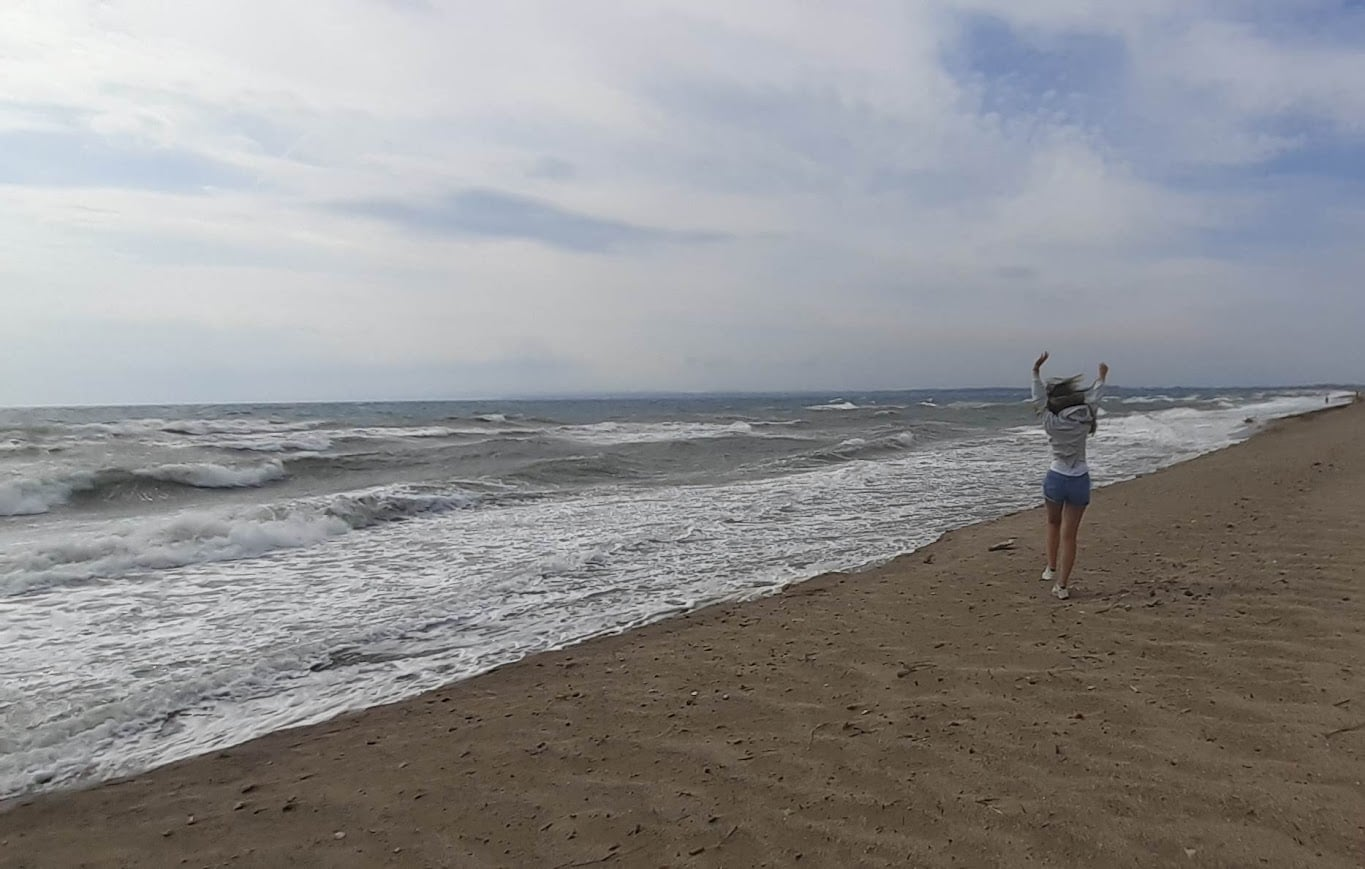
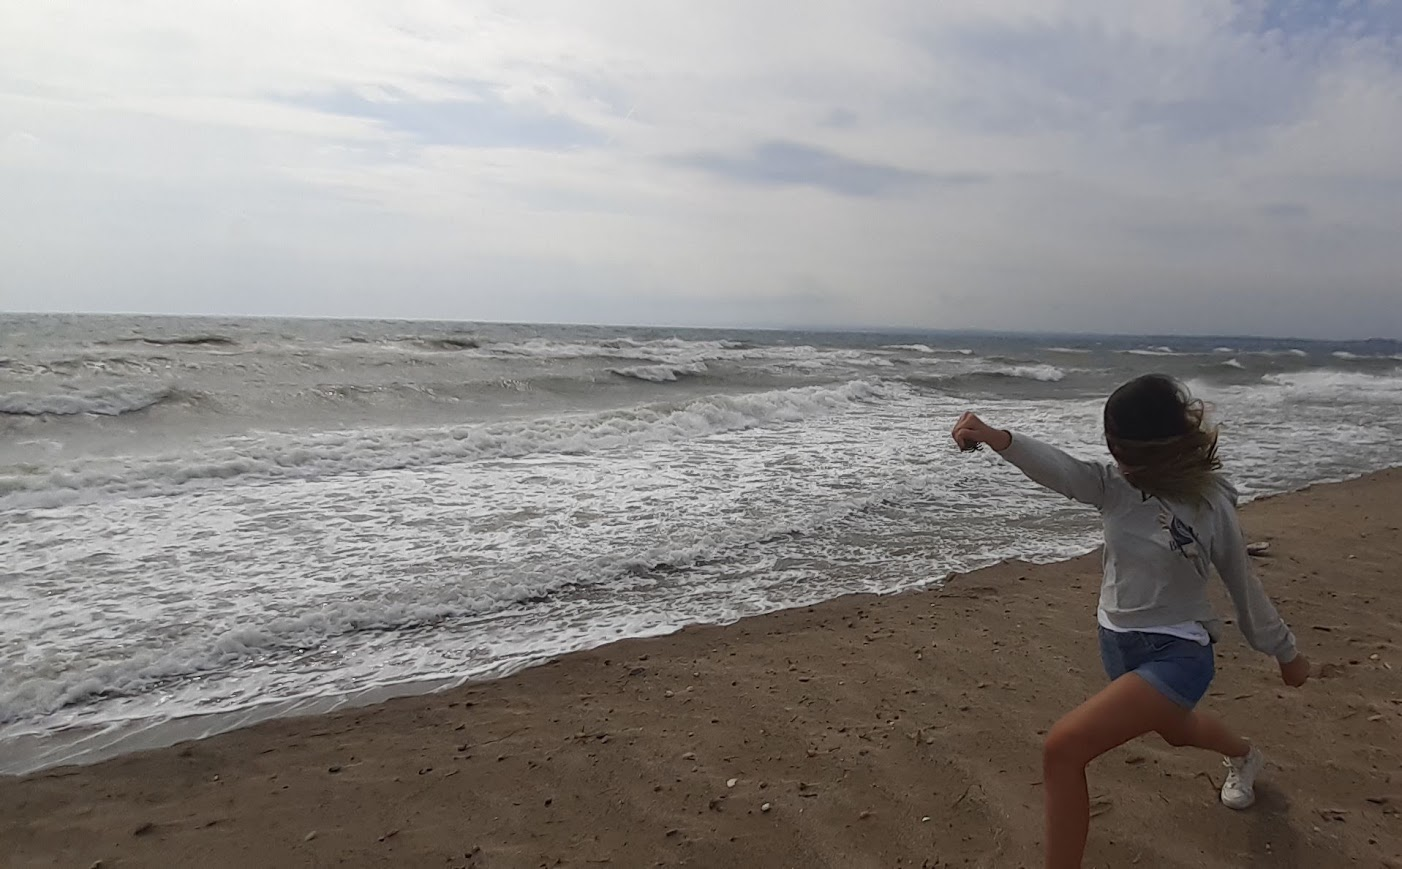
Update project links and responsive case studies

diff --git a/src/data/projects.js b/src/data/projects.js
@@ -28,6 +28,7 @@ export const botanicalGardenProject = {
   title: "BOTANICAL GARDEN",
   type: "Webapp",
   heroImage: botanicalHero,
+  liveUrl: "https://www.figma.com/proto/96ZBOzR01ED8kzXEN4golw/Botanical-Garden?node-id=501-2280&starting-point-node-id=501%3A2280&t=PyvHQD6uSrGxroPH-1",
   focusIcons: [figmaIcon, codingIcon],
   tagline: "An app that turns garden visitors into explorers, encouraging them to discover plants and save their favourites in a personal digital garden they can take home as a memory of their visit.",
   overview: [
@@ -63,6 +64,7 @@ export const blaSolProject = {
   title: "BLÅ SOL",
   type: "Webapp",
   heroImage: blaSolHero,
+  liveUrl: "https://madlengeorgieva.github.io/blue-sun/",
   focusIcons: [figmaIcon, codingIcon, lightningIcon, reactIcon],
   tagline: "Blå Sol is a mobile festival companion designed to make the festival experience more connected, organized, and safe through intuitive navigation, real-time information, social features, and an SOS function.",
   overview: [
@@ -80,7 +82,7 @@ export const blaSolProject = {
     { title: "DISCOVER", image: blaSolDiscover, imageAlt: "Blå Sol festival research board", text: "We explored the challenges festival visitors face around navigation, communication and safety. Through desk research, segmentation, field research, interviews and observation, we investigated how people behave in crowded festival environments and what they need to feel informed and connected." },
     { title: "DEFINE", image: blaSolDefine, imageAlt: "Blå Sol Matteo audience persona", text: "We structured our findings using empathy maps, affinity diagramming and personas to identify recurring needs and pain points. This helped us define the core opportunity: creating a simple mobile solution that reduces confusion and helps festival guests navigate, stay connected and feel safe." },
     { title: "DEVELOP", image: blaSolDevelop, imageAlt: "Blå Sol low-fidelity wireframes", text: "We explored different ideas through sketches, moodboards, style tiles and information architecture. We developed the festival map, navigation and communication features while applying UX principles to create a clear and accessible experience." },
-    { title: "DELIVER", image: blaSolDeliver, imageAlt: "Blå Sol final 50 Days Left interface", text: "We tested the concept with 10 participants from the target group and used their feedback to refine the experience. The final solution was developed as an interactive Figma prototype and further implemented as a front-end prototype, bringing together navigation, communication, safety and real-time festival information." },
+    { title: "DELIVER", image: blaSolDeliver, imageAlt: "Blå Sol final 50 Days Left interface", imagePosition: "center top", text: "We tested the concept with 10 participants from the target group and used their feedback to refine the experience. The final solution was developed as an interactive Figma prototype and further implemented as a front-end prototype, bringing together navigation, communication, safety and real-time festival information." },
   ],
 };
 
@@ -89,6 +91,7 @@ export const spilcafeenProject = {
   title: "SPILCAFEEN",
   type: "Webapp",
   heroImage: spilcafeenHero,
+  liveUrl: "https://www.figma.com/proto/8bHaUS110UlMVvvc7oiCRX/Spilcafeen?node-id=1-18&t=TrNcgR0M8JzIqD6v-1",
   focusIcons: [figmaIcon, codingIcon, lightningIcon, reactIcon],
   tagline: "Spilcafeen is a responsive digital experience that helps visitors discover board games suited to their group, interests, and mood. Through personalized recommendations and clear game information, finding the right game becomes simple, memorable, and enjoyable.",
   overview: [
@@ -115,6 +118,7 @@ export const hiddenHyggeProject = {
   title: "HIDDEN HYGGE PLACES",
   type: "Webapp",
   heroImage: hyggeHero,
+  liveUrl: "https://madlengeorgieva.github.io/hygge/",
   focusIcons: [figmaIcon, codingIcon],
   tagline: "Hidden Hygge Places is a responsive experience website that helps young adults discover lesser-known hygge spots based on their mood and interests. Through personalized recommendations and a memorabilia concept, the experience turns finding hidden places into something personal, meaningful, and memorable.",
   overview: [
@@ -132,7 +136,7 @@ export const hiddenHyggeProject = {
     { title: "DISCOVER", image: hyggeDiscover, imageAlt: "Hidden Hygge Places inspiration board", text: "I explored how young adults experience hygge and what makes a place feel cozy, comfortable and worth visiting. Through desk research, observations and interviews, I looked into Danish hygge culture, preferred activities, and how people experience hygge both at home and outside. This helped me understand what creates a meaningful and memorable hygge experience." },
     { title: "DEFINE", image: hyggeDefine, imageAlt: "Hidden Hygge Places Ana Patricia persona", text: "I defined young adults aged 20–25 as my primary target audience and used my research to identify their needs and motivations. Through an affinity diagram, empathy map, persona and Value Proposition Canvas, I discovered that users value calm, enjoyable experiences and meaningful moments they can remember. This led me to focus on the idea of memorabilia — creating something that allows users to take a small part of the experience with them." },
     { title: "DEVELOP", image: hyggeDevelop, imageAlt: "Hidden Hygge Places grayscale wireframes", text: "I explored how the idea of memorabilia could become part of the digital experience. Through mind mapping, user journeys, task flows and sketching, I developed an interactive quiz that helps users find a hidden hygge location matching their mood and interests. The experience was designed not only to help users discover a place, but to encourage them to create a personal memory connected to that experience." },
-    { title: "DELIVER", image: hyggeDeliver, imageAlt: "Hidden Hygge Places final responsive interface", text: "I developed the solution through low-fi, mid-fi and hi-fi prototypes in Figma, refining the layout, content and interactions along the way. Usability testing helped me identify areas for improvement and validate the experience with users. The final responsive website combines personalised location discovery with the idea of creating memorable moments, bringing the concept to life through HTML, CSS and JavaScript." },
+    { title: "DELIVER", image: hyggeDeliver, imageAlt: "Hidden Hygge Places final responsive interface", imagePosition: "center top", text: "I developed the solution through low-fi, mid-fi and hi-fi prototypes in Figma, refining the layout, content and interactions along the way. Usability testing helped me identify areas for improvement and validate the experience with users. The final responsive website combines personalised location discovery with the idea of creating memorable moments, bringing the concept to life through HTML, CSS and JavaScript." },
   ],
 };
 

diff --git a/src/Components/ProjectDetailTemplate.jsx b/src/Components/ProjectDetailTemplate.jsx
@@ -42,7 +42,19 @@ function ProjectDetailTemplate({ project }) {
       <Header />
       <main>
         <section className={styles.hero}>
-          <img src={project.heroImage} alt={`${project.title} project preview`} />
+          {project.liveUrl ? (
+            <a
+              className={styles.heroLink}
+              href={project.liveUrl}
+              target="_blank"
+              rel="noreferrer"
+              aria-label={`Open the live ${project.title} project`}
+            >
+              <img src={project.heroImage} alt={`${project.title} project preview`} />
+            </a>
+          ) : (
+            <img src={project.heroImage} alt={`${project.title} project preview`} />
+          )}
         </section>
 
         <section className={styles.intro}>
@@ -121,7 +133,11 @@ function ProjectDetailTemplate({ project }) {
                   onClick={() => setOpenProcessImage(step)}
                   aria-label={`Open ${step.imageAlt} at full size`}
                 >
-                  <img src={step.image} alt={step.imageAlt} />
+                  <img
+                    src={step.image}
+                    alt={step.imageAlt}
+                    style={step.imagePosition ? { objectPosition: step.imagePosition } : undefined}
+                  />
                 </button>
               </article>
             ))}

diff --git a/src/Components/ProjectDetailTemplate.module.css b/src/Components/ProjectDetailTemplate.module.css
@@ -102,6 +102,10 @@
 .imageLightbox{position:fixed;z-index:1000;inset:0;padding:32px;display:grid;place-items:center;background:#000d;cursor:zoom-out}
 .imageLightbox img{max-width:min(1200px,92vw);max-height:88vh;border-radius:24px;object-fit:contain;box-shadow:0 22px 65px #0008;cursor:default}
 .imageLightboxClose{position:fixed;z-index:2;top:22px;right:26px;width:52px;height:52px;border:0;border-radius:50%;display:grid;place-items:center;background:#ffbd00;color:#111;font-size:2.25rem;line-height:1;cursor:pointer}
+.heroLink{display:block;width:100%;height:100%;cursor:pointer}
+.heroLink img{transition:transform .3s ease,filter .3s ease}
+.heroLink:hover img,.heroLink:focus-visible img{transform:scale(1.018);filter:brightness(.9)}
+.heroLink:focus-visible{outline:5px solid #ffbd00;outline-offset:-5px}
 
 @media(max-width:700px){
   .processStep{min-height:0;padding-top:0;display:flex;flex-direction:column;gap:18px}
